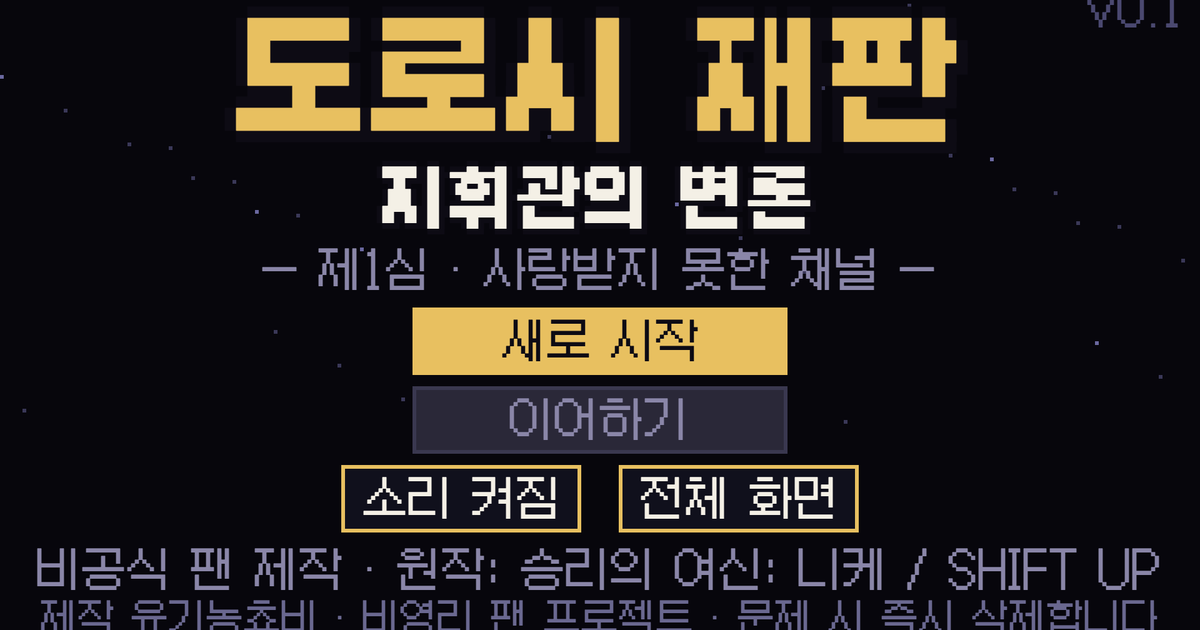
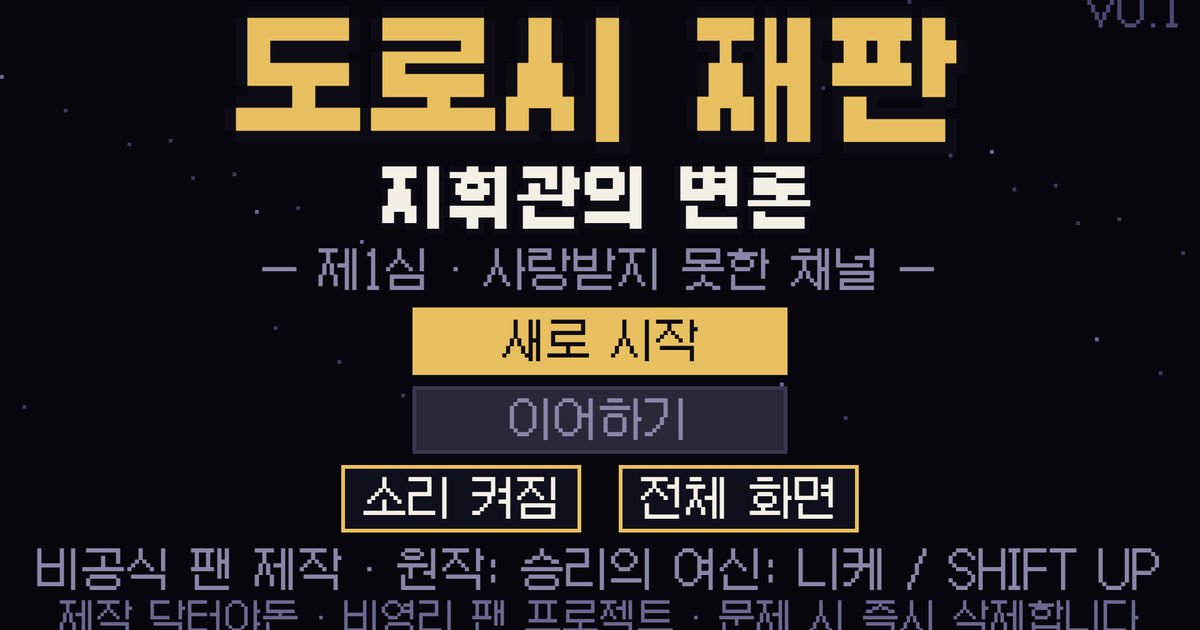
제작자 표기: 닥터야돈 (CASE.maker)

Changed region(s): [[0.0308, 0.9349, 0.9867, 1.0]]

diff --git a/src/game.js b/src/game.js
@@ -1160,7 +1160,8 @@
   }
   const TITLE = CASE.title || '나유타 재판', TAGLINE = CASE.tagline || '이 길이 아닌가?';
   const CREDIT = '비공식 팬 제작 · 원작: 승리의 여신: 니케 / SHIFT UP';
-  const NOTICE = '제작 유기농쵸비 · 비영리 팬 프로젝트 · 문제 시 즉시 삭제합니다';
+  const MAKER = CASE.maker || '유기농쵸비'; // 제작자 표기(게임마다 CASE.maker)
+  const NOTICE = `제작 ${MAKER} · 비영리 팬 프로젝트 · 문제 시 즉시 삭제합니다`;
   const FEEDBACK = '피드백: globalchmist@naver.com';
   function drawTitle() {
     rect(0, 0, W, H, COL.night);
@@ -1212,7 +1213,7 @@
     text(`플레이 시간 ${Math.floor(st.sec / 60)}분 ${String(Math.round(st.sec % 60)).padStart(2, '0')}초`, 160, 111, COL.dim, { align: 'center' });
     button(64, 142, 94, 18, '결과 복사', copyResult);
     button(162, 142, 94, 18, '타이틀로', toTitle);
-    text(`${FEEDBACK} · 제작 유기농쵸비`, 160, 166, COL.dim, { align: 'center', scale: 10 / 12 });
+    text(`${FEEDBACK} · 제작 ${MAKER}`, 160, 166, COL.dim, { align: 'center', scale: 10 / 12 });
   }
   function drawChoice() {
     const c = S.choice;

diff --git a/data/case1.js b/data/case1.js
@@ -6,6 +6,7 @@
 window.CASE = {
   id: 'case1',
   gameId: 'dorothy-trial',
+  maker: '닥터야돈',
   title: '도로시 재판',
   tagline: '지휘관의 변론',
   subtitle: '— 제1심 · 사랑받지 못한 채널 —',

diff --git a/README.md b/README.md
@@ -8,7 +8,7 @@
 
 플레이: <https://hspark-rm.github.io/dorothy-trial/>
 
-제작: 유기농쵸비 · 피드백: globalchmist@naver.com
+제작: 닥터야돈 · 피드백: globalchmist@naver.com
 
 지금 들어 있는 것: 제1심 「사랑받지 못한 채널」(갱생관 조사 + 재판, 영매 빙의). 2심 「도반의 법정」, 3심(버닝엄·재판장 앤더슨)은 만드는 중.
 
